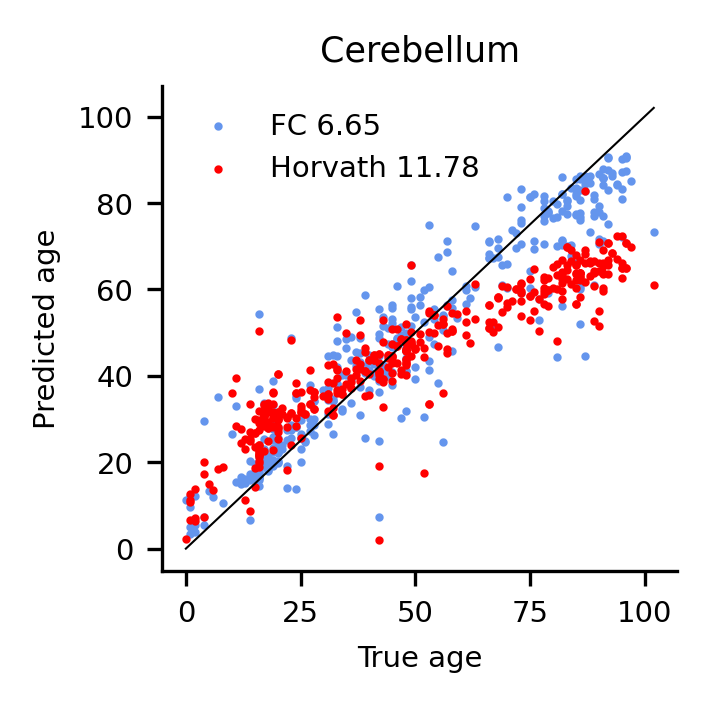
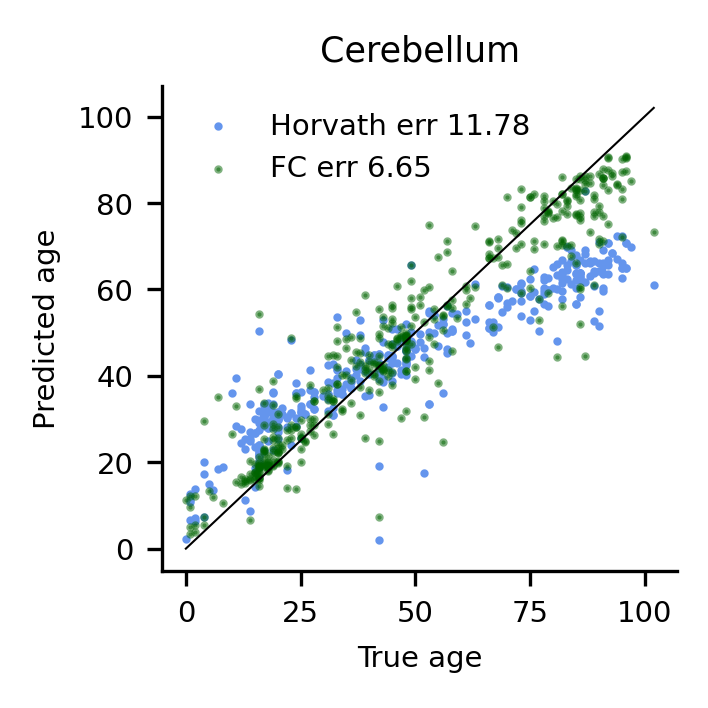
comparing with Horvath

diff --git a/age_models/cerebellum/age_rf.py b/age_models/cerebellum/age_rf.py
@@ -52,8 +52,12 @@ def rf_fit(sel_marker_values, ages, horvath_preds, outdir):
     '''5 fold CV
     '''
 
-    kf = KFold(n_splits=5, random_state=42, shuffle=True)
     fig,ax = plt.subplots(figsize=(6/2.54, 6/2.54))
+    #Plot Horvath
+    horvath_error = np.average(np.absolute(ages-horvath_preds))
+    plt.scatter(ages,horvath_preds,color='cornflowerblue',s=1,label='Horvath err '+str(np.round(horvath_error,2)))
+    #5-fold CV
+    kf = KFold(n_splits=5, random_state=42, shuffle=True)
     errors = []
     fold = 0
     for ti, vi in kf.split(sel_marker_values):
@@ -69,12 +73,10 @@ def rf_fit(sel_marker_values, ages, horvath_preds, outdir):
         pred = regr.predict(X_valid)
         errors.append(np.average(np.absolute(pred-y_valid)))
         if fold ==5:
-            plt.scatter(y_valid,pred,s=1,color='cornflowerblue',label='FC '+str(np.round(np.average(errors),2)))
+            plt.scatter(y_valid,pred,s=1,color='darkgreen',label='FC err '+str(np.round(np.average(errors),2)),alpha=0.5)
         else:
-            plt.scatter(y_valid,pred,s=1,color='cornflowerblue')
-    #Plot Horvath
-    horvath_error = np.average(np.absolute(ages-horvath_preds))
-    plt.scatter(ages,horvath_preds,color='r',s=1,label='Horvath '+str(np.round(horvath_error,2)))
+            plt.scatter(y_valid,pred,s=1,color='darkgreen',alpha=0.5)
+
     #Plot diagonal line
     plt.plot([min(ages),max(ages)],[min(ages),max(ages)],color='k',linewidth=0.5)
     plt.xlabel('True age')
